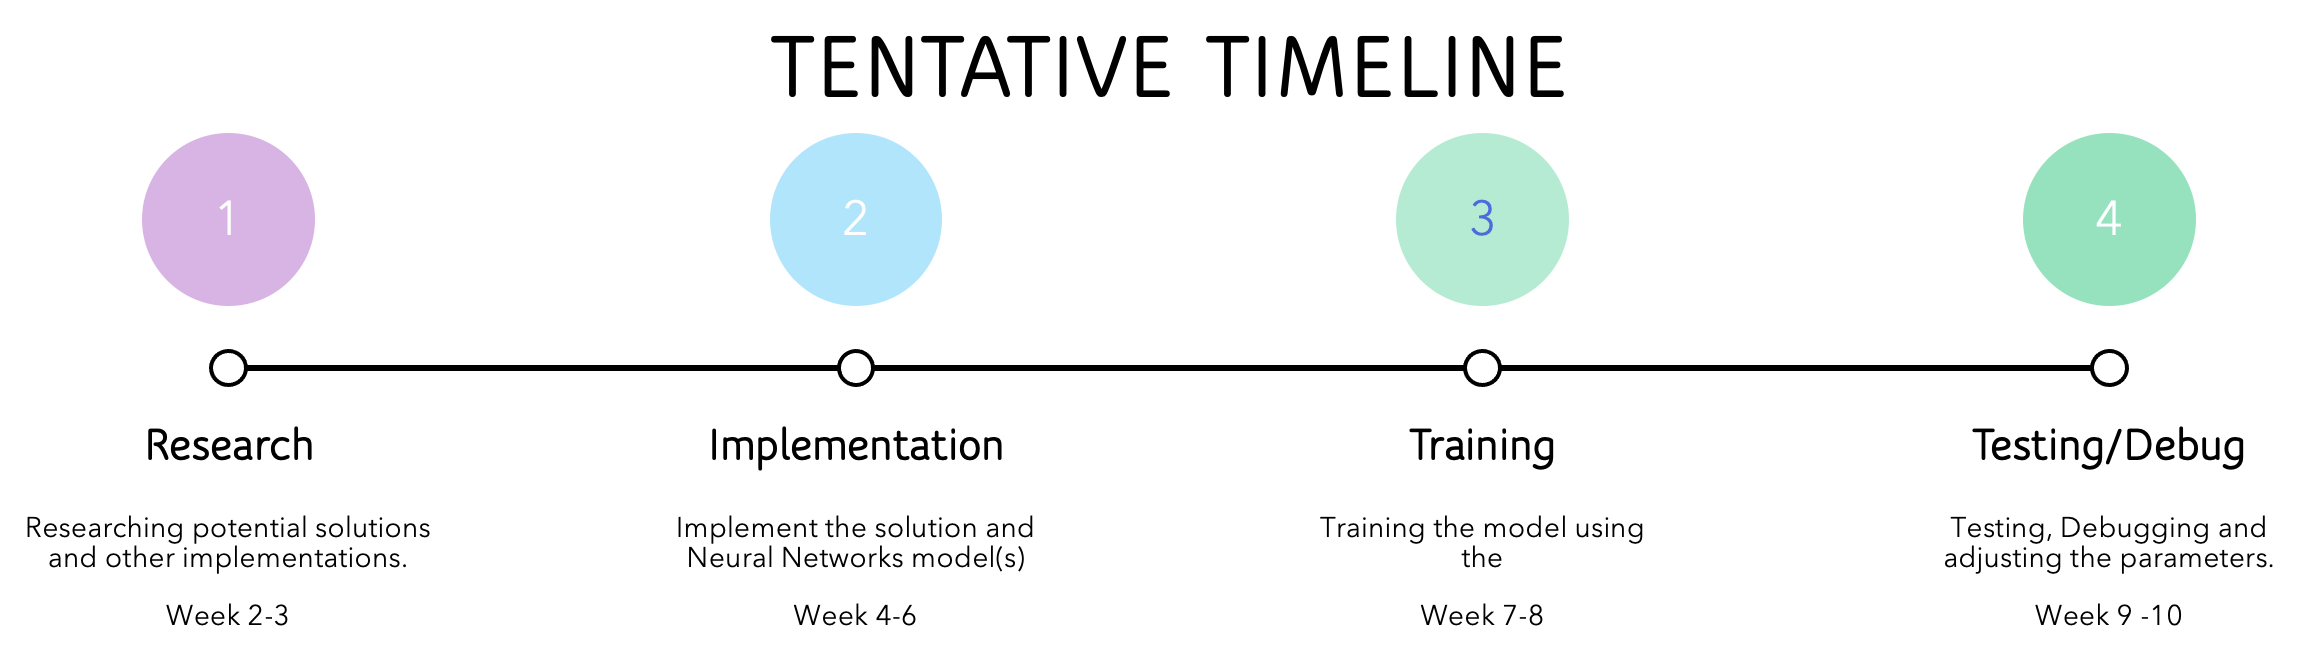
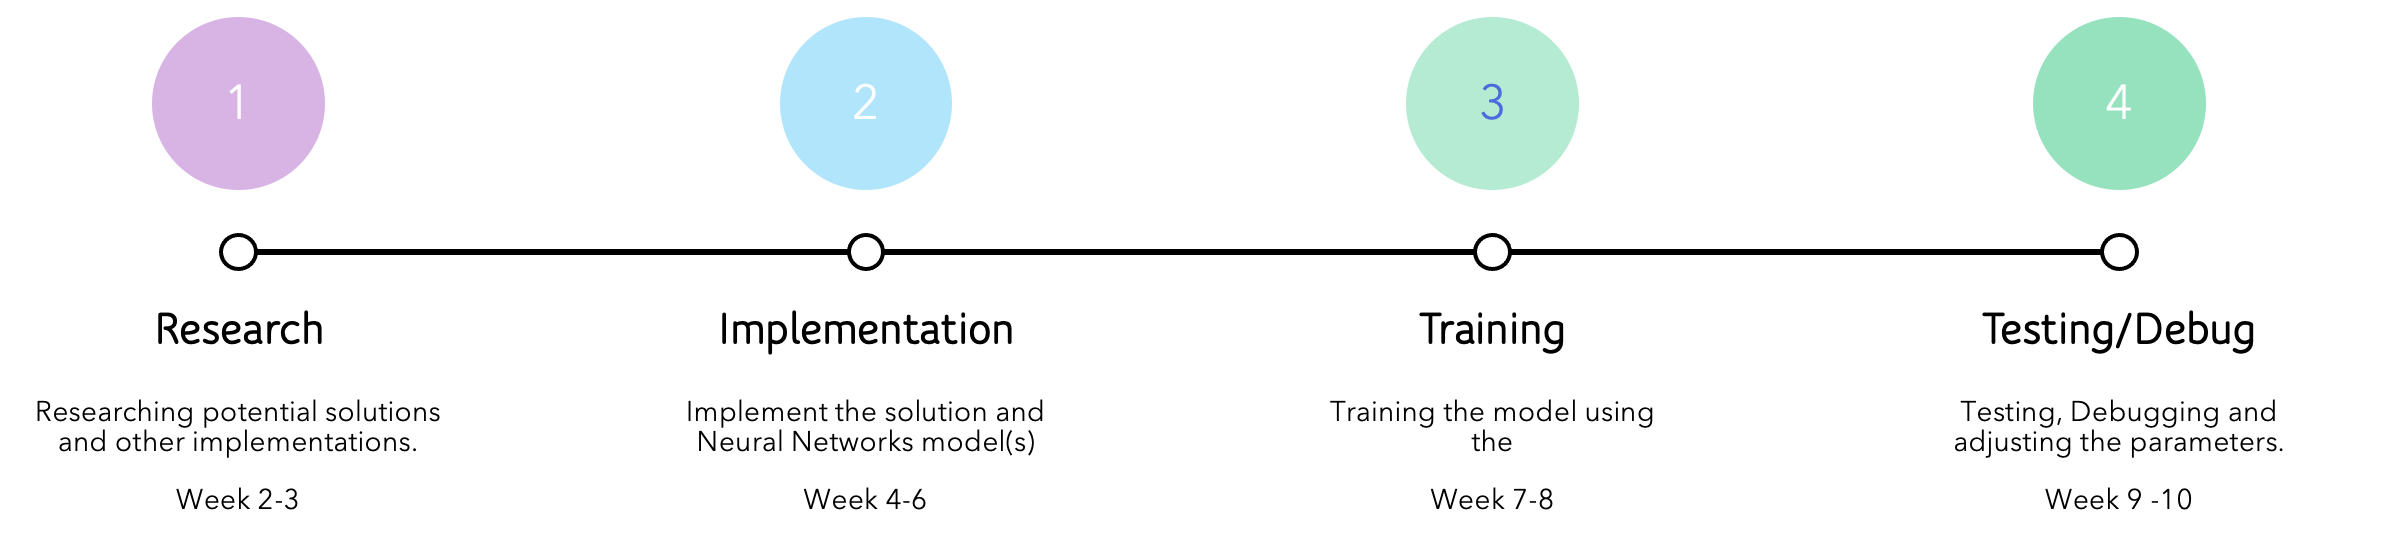
Project Proposal

diff --git a/neurips_2023.tex b/neurips_2023.tex
@@ -1,13 +1,13 @@
 \documentclass{article}
 % ready for submission
-\usepackage{neurips_2023}
+\usepackage[preprint]{neurips_2023}
 \usepackage{biblatex} %Imports biblatex package
 \addbibresource{sample.bib} %Import the bibliography file
-
+\usepackage{graphicx}
 
 % to compile a preprint version, e.g., for submission to arXiv, add add the
 % [preprint] option:
-%     \usepackage[preprint]{neurips_2023}
+%\usepackage[preprint]{neurips_2023}
 
 
 % to compile a camera-ready version, add the [final] option, e.g.:
@@ -31,33 +31,25 @@
 
 \title{Image Recovery From Underexposed Photographs Using Generative Models}
 
-
-% The \author macro works with any number of authors. There are two commands
-% used to separate the names and addresses of multiple authors: \And and \AND.
-%
-% Using \And between authors leaves it to LaTeX to determine where to break the
-% lines. Using \AND forces a line break at that point. So, if LaTeX puts 3 of 4
-% authors names on the first line, and the last on the second line, try using
-% \AND instead of \And before the third author name.
-
-
 \author{
-  David S.~Hippocampus
-  Department of Electrical & Computer Engineering\\
-  University of Califonia San Diego\\
-  La Jolla, CA 92093 \\
-  \texttt{hippo@cs.cranberry-lemon.edu} \\
+  Moises Lopez \\
+  Department of Electrical & Computer Engineering \\
+  University of Califonia San Diego \\
+  % La Jolla, CA 92093 \\
+  \texttt{mlopezme@ucsd.edu} \\
   % examples of more authors
   \And
-  Sepehr Aiden Bostan\\
-  Affiliation\\
-  La Jolla, CA 92093\\
-  \texttt{sbostanb@ucsd.edu}\\
+  Sepehr Aiden Bostan \\
+  Department of Electrical & Computer Engineering \\
+  University of Califonia San Diego \\
+  % La Jolla, CA 92093 \\
+  \texttt{sbostanb@ucsd.edu} \\
   \And
   Yiteng Zhao \\
-  Affiliation \\
-  La Jolla, CA 92093 \\
-  \texttt{email} \\
+  Department of Electrical & Computer Engineering \\
+  University of Califonia San Diego \\
+  % La Jolla, CA 92093 \\
+  \texttt{yiz097@ucsd.edu} \\
 }
 
 
@@ -74,31 +66,34 @@
 
 \section{Introduction}
 \subsection{What research problem are we trying to solve?}
-The application of Computer Vision and users of social media have driven the demand of clear, vibrant, and well-exposed images under all situations. However, the current CMOS sensors used in cameras and smartphones only performs well under good lighting condition due to physical constrains such as the size of pixels in CMOS sensor and its capability of capturing photons in challenging lighting condition. Insufficient photons received by the CMOS pixels causes low Signal-to-Noise ratio and results in dark images. These dark, under-exposed images are difficult for computer vision analysis and human to perceive contents from them. There are several physical approaches to increase the Signal-to-Noise ratio such as manufacturing bigger pixels, enlarging aperture, increasing ISO, etc.. However, bigger pixels reduces the overall resolution of the image, and enlarging aperture reduces depth of fields, while increasing ISO will introduces awful lots of noise to the image. Our research problem is finding a better method of recovering underexposed images with computation approach using probabilistic neural network model while keeping the image sharp, color-accurate and clean. 
+Social media and computer vision applications demand high-quality images, but current CMOS sensors used in cameras and smartphones struggle to perform well in challenging lighting conditions due to physical limitations. Low levels of photons captured by CMOS pixels result in dark, under-exposed images that are difficult for both computer analysis and human perception. Traditional physical methods such as enlarging pixels, aperture or increasing ISO can improve the Signal-to-Noise ratio, but at the cost of resolution, depth of field, or noise in the image. Therefore, our research aims to develop a better computational approach using a probabilistic neural network model to recover under-exposed images while maintaining their sharpness, color accuracy, and cleanliness.
 
 \subsection{Why is this problem important?}
-The potential of solving this problem can extend from mere convenience to saving lives. For example, in computer vision and autonomous vehicles, instead of using lidars in low light conditions we can simply use cameras for object detection and obstacle avoidance, similarly for search and rescue operations a similar method can be used, in radiation imagery such as x-ray images used in the medical field loses some amount of details due to underexposed pixels, this can be potentially life-threatening as it could hide a small tumor or other irregularities which would otherwise be detected by medical professionals. On the other hand in photography, underexposed images can be recreated with higher brightness which can merely be convenient for people.
+The potential of solving this problem can extend from mere convenience to saving lives. For example, in computer vision and autonomous vehicles, instead of using lidars in low light conditions we can simply use cameras for object detection and obstacle avoidance. Similarly, in search and rescue operations, a similar method can be used. In radiation imagery such as x-ray images used in the medical field, underexposed pixels can result in a loss of crucial details, potentially hiding a small tumor or other irregularities that would otherwise be detected by medical professionals. On the other hand, in photography, underexposed images can be recreated with higher brightness, which can merely be convenient for people.
 \section{Related Works}
 
 The literature has thoroughly examined the computational processing of low-light images. We will give a brief overview of the methods currently available.
 
 \subsubsection{Convolutional Neural Networks} 
-Extreme low light imaging using convolutional neural networks is a novel topic. Researchers have explored the use of deep neural networks \cite{LearningToSeeInTheDark} for image enhancement. The use of deep neural networks for image enhancement has some limitations and shortcomings, as highlighted by several factors. Firstly, the convolutional network is individually tuned for each camera sensor. The model requires cross-sensor generalization to be effective across different cameras. Secondly, the hyper-parameters of the network, in particular the amplification factors, need to be manually tuned, indicating the need for an auto ISO feature to improve efficiency. Thirdly, the absence of HDR tone mapping and dynamic objects in the dataset limits the network's ability to enhance such images. Moreover, there are artifacts present in the final image, which could potentially be reduced. Finally, the long processing time of 0.38-0.66 seconds per image could pose a challenge in real-time applications. Therefore, while deep neural networks offer promising results for image enhancement, these limitations need to be addressed to improve their practicality and effectiveness in various applications.
+Researchers have explored the use of deep neural networks for extreme low-light imaging, but the approach has limitations and shortcomings. One issue is that the convolutional network\cite{LearningToSeeInTheDark} is individually tuned for each camera sensor, requiring cross-sensor generalization to be effective across different cameras. The hyper-parameters of the network, such as amplification factors, also need to be manually tuned, indicating the need for an auto ISO feature to improve efficiency. Additionally, the absence of HDR tone mapping and dynamic objects in the dataset limits the network's ability to enhance such images. Artifacts in the final image could also potentially be reduced. Finally, the long processing time of 0.38-0.66 seconds per image could be problematic for real-time applications. These limitations need to be addressed to improve the practicality and effectiveness of deep neural networks for image enhancement.
 
 \subsubsection{Low-light image enhancement.}
 
-There are different techniques for image enhancement, including histogram equalization and gamma correction. Histogram equalization involves balancing the histogram of the entire image, while gamma correction increases the brightness of dark regions and compresses bright pixels. More advanced techniques involve global analysis and processing, such as the inverse dark channel prior, wavelet transform \cite{AutomaticContrastEnhancement}, Retinex model\cite{retinex}, and illumination map estimation. However, these techniques typically assume that the images already have a good representation of the scene content.
+There are different techniques for image enhancement, including histogram equalization and gamma correction. Histogram equalization involves balancing the histogram of the entire image, while gamma correction increases the brightness of dark regions and compresses bright pixels. More advanced techniques involve global analysis and processing, such as the inverse dark channel prior, wavelet transform \cite{AutomaticContrastEnhancement}, Retinex model\cite{retinex}, and illumination map estimation\cite{illumest}. However, these techniques typically assume that the images already have a good representation of the scene content.
 
 However, we are focusing on extreme low-light imaging, which is characterized by high levels of noise and color distortion that exceed the capabilities of current enhancement pipelines.
 
 \section{Methodology}
-\subsection{Proposed a solution for solving this problem}
+%\subsection{Proposed a solution for solving this problem}
+We propose a generative network model that our generative network is designed to analyze and sample from the distribution of under-exposed images, and generate well-exposed images for comparing against the discriminate network using CNNs with ground truth as input. 
 \section{Novelty and significance of our solution}
+Our solution increases the quality and usability of underexposed images which are common in various applications. As mentioned before the potential of solving this problem can extend from mere convenience to saving lives.
 \section{Tentative timeline}
 \begin{figure}[h]
   \centering
-  \includegraphics{timeline.png}
-  \fbox{\rule[-.5cm]{0cm}{4cm} \rule[-.5cm]{4cm}{0cm}}
+  \includegraphics[width=\textwidth]{timeline.png}
 \end{figure}
+
+\medskip
 \printbibliography %Prints bibliography
 \end{document}
